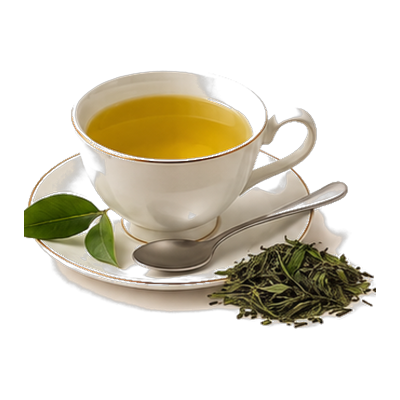
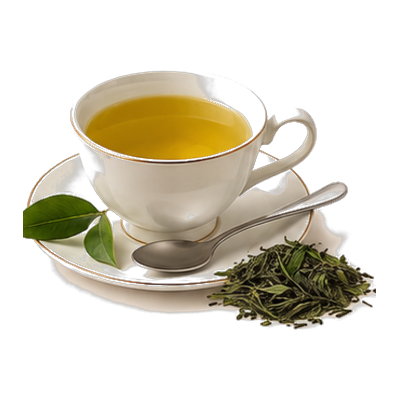
Tea: equalize cup size across all three teas (match cup-opening width)

diff --git a/data.js b/data.js
@@ -91,11 +91,11 @@ window.MENU = [
     eyebrow: '',
     blurb: 'Brewed by the cup. Steeped to order.',
     items: [
-      { name: 'English Tea', ingr: 'black tea blend',  price: 2.75, color: '#9C3D1F', img: 'assets/drinks/coffee-english-tea.png?v=5',
+      { name: 'English Tea', ingr: 'black tea blend',  price: 2.75, color: '#9C3D1F', img: 'assets/drinks/coffee-english-tea.png?v=6',
         allergens: [], nutrition: { kj: 10, kcal: 2, fat: 0, satFat: 0, carbs: 0, sugars: 0, fibre: 0, protein: 0, sodium: 8 } },
-      { name: 'Green Tea',   ingr: 'loose-leaf sencha', price: 2.75, color: '#7A8A2D', img: 'assets/drinks/coffee-green-tea.png?v=5',
+      { name: 'Green Tea',   ingr: 'loose-leaf sencha', price: 2.75, color: '#7A8A2D', img: 'assets/drinks/coffee-green-tea.png?v=6',
         allergens: [], nutrition: { kj: 5, kcal: 1, fat: 0, satFat: 0, carbs: 0, sugars: 0, fibre: 0, protein: 0, sodium: 5 } },
-      { name: 'Matcha',      ingr: 'ceremonial matcha, hot water', price: 3.50, color: '#5E8A2D', img: 'assets/drinks/coffee-matcha.png?v=1', allergens: [] },
+      { name: 'Matcha',      ingr: 'ceremonial matcha, hot water', price: 3.50, color: '#5E8A2D', img: 'assets/drinks/coffee-matcha.png?v=2', allergens: [] },
     ],
   },
 ];
